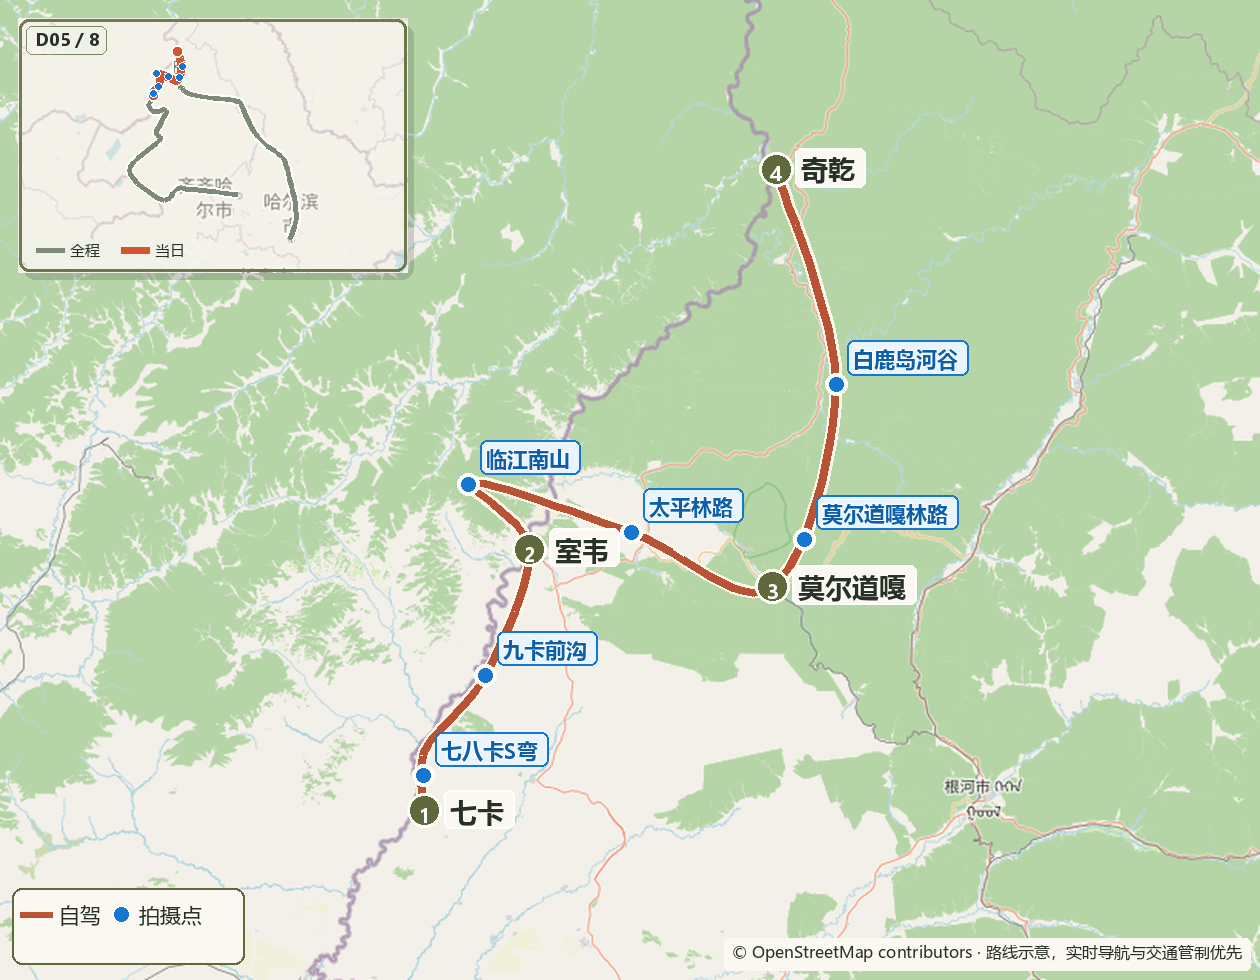
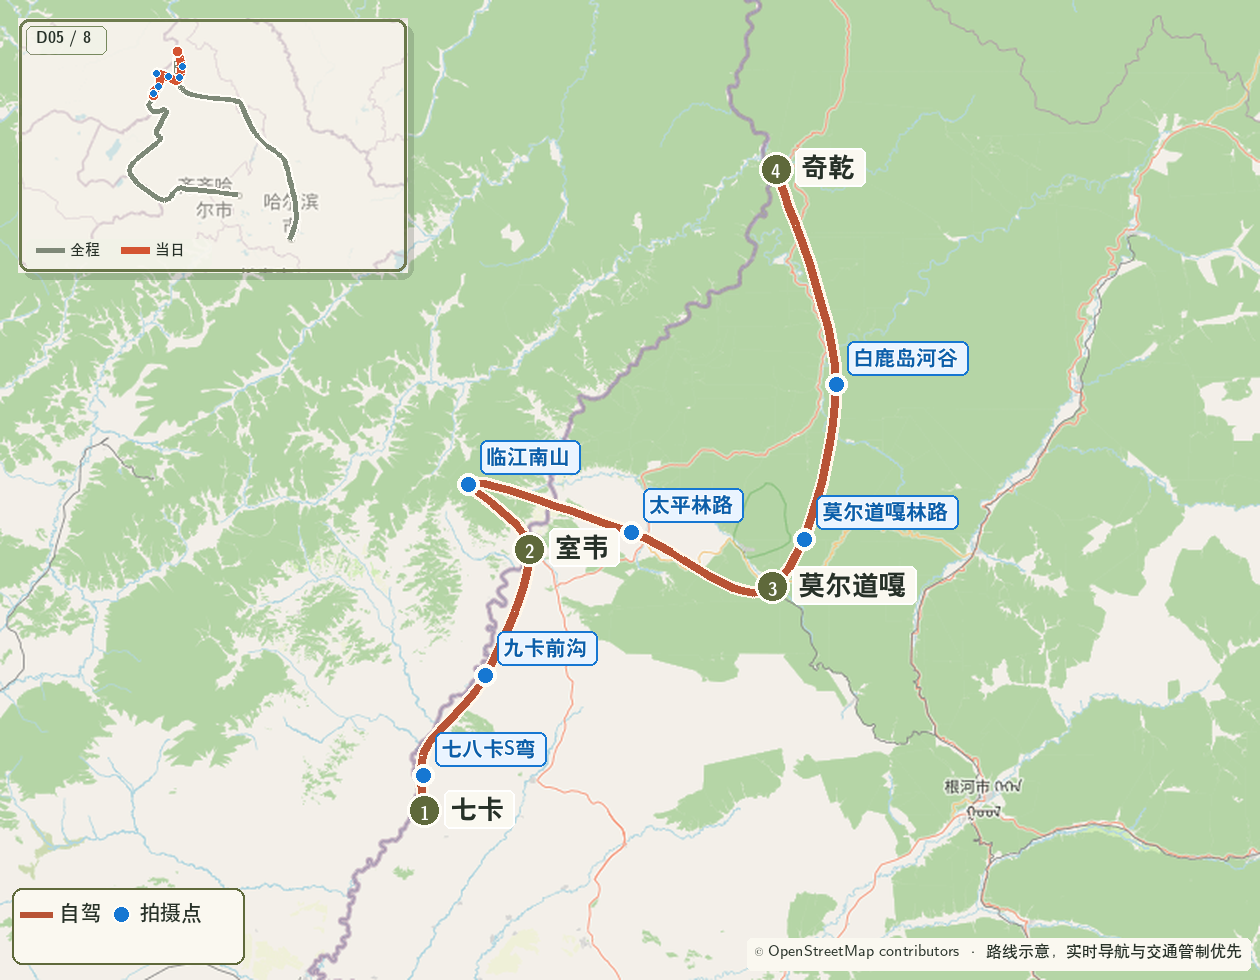
Clean and align Quarto roadbook

diff --git a/scripts/build_maps.py b/scripts/build_maps.py
@@ -49,15 +49,11 @@ COLORS = {
 
 
 def load_font(size: int, bold: bool = False) -> ImageFont.FreeTypeFont:
-    candidates = [
-        Path("/mnt/c/Windows/Fonts/msyhbd.ttc" if bold else "/mnt/c/Windows/Fonts/msyh.ttc"),
-        Path("/mnt/c/Windows/Fonts/simhei.ttf"),
-        Path("/home/zizhuo/texlive/2025/texmf-dist/fonts/opentype/public/fandol/FandolHei-Bold.otf"),
-    ]
-    for path in candidates:
-        if path.exists():
-            return ImageFont.truetype(str(path), size=size)
-    return ImageFont.load_default()
+    filename = "FandolHei-Bold.otf" if bold else "FandolHei-Regular.otf"
+    path = ROOT / "assets" / "fonts" / "fandol" / filename
+    if not path.exists():
+        raise FileNotFoundError(f"Bundled map font not found: {path}")
+    return ImageFont.truetype(str(path), size=size)
 
 
 FONT_LABEL = load_font(27, bold=True)
@@ -172,6 +168,8 @@ def label_box(
     text: str,
     index: int,
     canvas_width: int,
+    canvas_height: int,
+    occupied: list[tuple[float, float, float, float]],
 ) -> tuple[float, float, float, float]:
     radius = 17
     draw.ellipse((x - radius, y - radius, x + radius, y + radius), fill=COLORS["olive"], outline="#FFFDF7", width=3)
@@ -182,11 +180,32 @@ def label_box(
     text_bbox = draw.textbbox((0, 0), text, font=FONT_LABEL, stroke_width=1)
     tw = text_bbox[2] - text_bbox[0]
     th = text_bbox[3] - text_bbox[1]
-    tx = x + radius + 8
-    ty = y - th / 2 - 4
-    if tx + tw + 12 > canvas_width - 8:
-        tx = x - radius - tw - 18
-    box = (tx - 6, ty - 3, tx + tw + 8, ty + th + 7)
+    candidates = [
+        (x + radius + 8, y - th / 2 - 4),
+        (x - radius - tw - 18, y - th / 2 - 4),
+        (x + radius + 8, y + radius + 6),
+        (x - radius - tw - 18, y + radius + 6),
+        (x + radius + 8, y - radius - th - 10),
+        (x - radius - tw - 18, y - radius - th - 10),
+        (x - tw / 2, y - radius - th - 12),
+        (x - tw / 2, y + radius + 8),
+    ]
+
+    best: tuple[float, float, tuple[float, float, float, float]] | None = None
+    best_score = float("inf")
+    for raw_tx, raw_ty in candidates:
+        tx = max(8.0, min(raw_tx, canvas_width - tw - 10.0))
+        ty = max(8.0, min(raw_ty, canvas_height - th - 98.0))
+        box = (tx - 6, ty - 3, tx + tw + 8, ty + th + 7)
+        overlap = sum(boxes_overlap(box, other) for other in occupied)
+        displacement = abs(tx - raw_tx) + abs(ty - raw_ty)
+        score = overlap * 1000 + displacement
+        if score < best_score:
+            best_score = score
+            best = (tx, ty, box)
+
+    assert best is not None
+    tx, ty, box = best
     draw.rounded_rectangle(box, radius=6, fill=(250, 248, 240, 224), outline=(255, 255, 255, 235), width=2)
     draw.text((tx, ty), text, fill=COLORS["ink"], font=FONT_LABEL, stroke_width=1, stroke_fill="#FFFDF7")
     return box
@@ -265,6 +284,48 @@ def photo_marker(
         stroke_fill="#FFFFFF",
     )
     occupied.append(box)
+
+
+def hazard_marker(
+    draw: ImageDraw.ImageDraw,
+    x: float,
+    y: float,
+    text: str,
+    canvas_width: int,
+    canvas_height: int,
+    occupied: list[tuple[float, float, float, float]],
+) -> None:
+    """Draw a warning marker with a label that avoids route labels."""
+    tri = [(x, y - 20), (x - 19, y + 16), (x + 19, y + 16)]
+    draw.polygon(tri, fill=COLORS["rust"], outline="#FFFDF7")
+
+    bbox = draw.textbbox((0, 0), text, font=FONT_LABEL, stroke_width=2)
+    tw = bbox[2] - bbox[0]
+    th = bbox[3] - bbox[1]
+    candidates = [
+        (x + 24, y - th / 2 - 3),
+        (x - tw - 28, y - th / 2 - 3),
+        (x - tw / 2, y + 24),
+        (x - tw / 2, y - th - 28),
+    ]
+
+    best: tuple[float, float, tuple[float, float, float, float]] | None = None
+    best_score = float("inf")
+    for raw_tx, raw_ty in candidates:
+        tx = max(8.0, min(raw_tx, canvas_width - tw - 10.0))
+        ty = max(8.0, min(raw_ty, canvas_height - th - 98.0))
+        hazard_box = (tx - 5, ty - 3, tx + tw + 7, ty + th + 6)
+        overlap = sum(boxes_overlap(hazard_box, other) for other in occupied)
+        displacement = abs(tx - raw_tx) + abs(ty - raw_ty)
+        score = overlap * 1000 + displacement
+        if score < best_score:
+            best_score = score
+            best = (tx, ty, hazard_box)
+
+    assert best is not None
+    tx, ty, hazard_box = best
+    draw.text((tx, ty), text, fill=COLORS["rust"], font=FONT_LABEL, stroke_width=2, stroke_fill="#FFFDF7")
+    occupied.extend([hazard_box, (x - 21, y - 22, x + 21, y + 18)])
 
 
 def build_context_inset(key: str, spec: dict, places: dict, photo_points: dict, overview_spec: dict) -> Image.Image:
@@ -455,7 +516,17 @@ def build_map(key: str, spec: dict, places: dict, photo_points: dict, output: Pa
     occupied: list[tuple[float, float, float, float]] = []
     for i, place_key in enumerate(spec.get("labels", []), start=1):
         p = places[place_key]
-        occupied.append(label_box(draw, *project(p["lon"], p["lat"]), p["short"], i, target[0]))
+        occupied.append(
+            label_box(
+                draw,
+                *project(p["lon"], p["lat"]),
+                p["short"],
+                i,
+                target[0],
+                target[1],
+                occupied,
+            )
+        )
 
     photo_labels = set(spec.get("photo_labels", spec.get("photos", [])))
     for photo_key in spec.get("photos", []):
@@ -472,9 +543,7 @@ def build_map(key: str, spec: dict, places: dict, photo_points: dict, output: Pa
 
     for hazard in spec.get("hazards", []):
         x, y = project(hazard["lon"], hazard["lat"])
-        tri = [(x, y - 20), (x - 19, y + 16), (x + 19, y + 16)]
-        draw.polygon(tri, fill=COLORS["rust"], outline="#FFFDF7")
-        draw.text((x + 24, y - 14), hazard["label"], fill=COLORS["rust"], font=FONT_LABEL, stroke_width=2, stroke_fill="#FFFDF7")
+        hazard_marker(draw, x, y, hazard["label"], target[0], target[1], occupied)
 
     if key.startswith("d"):
         daily_route_points: list[tuple[float, float]] = []
